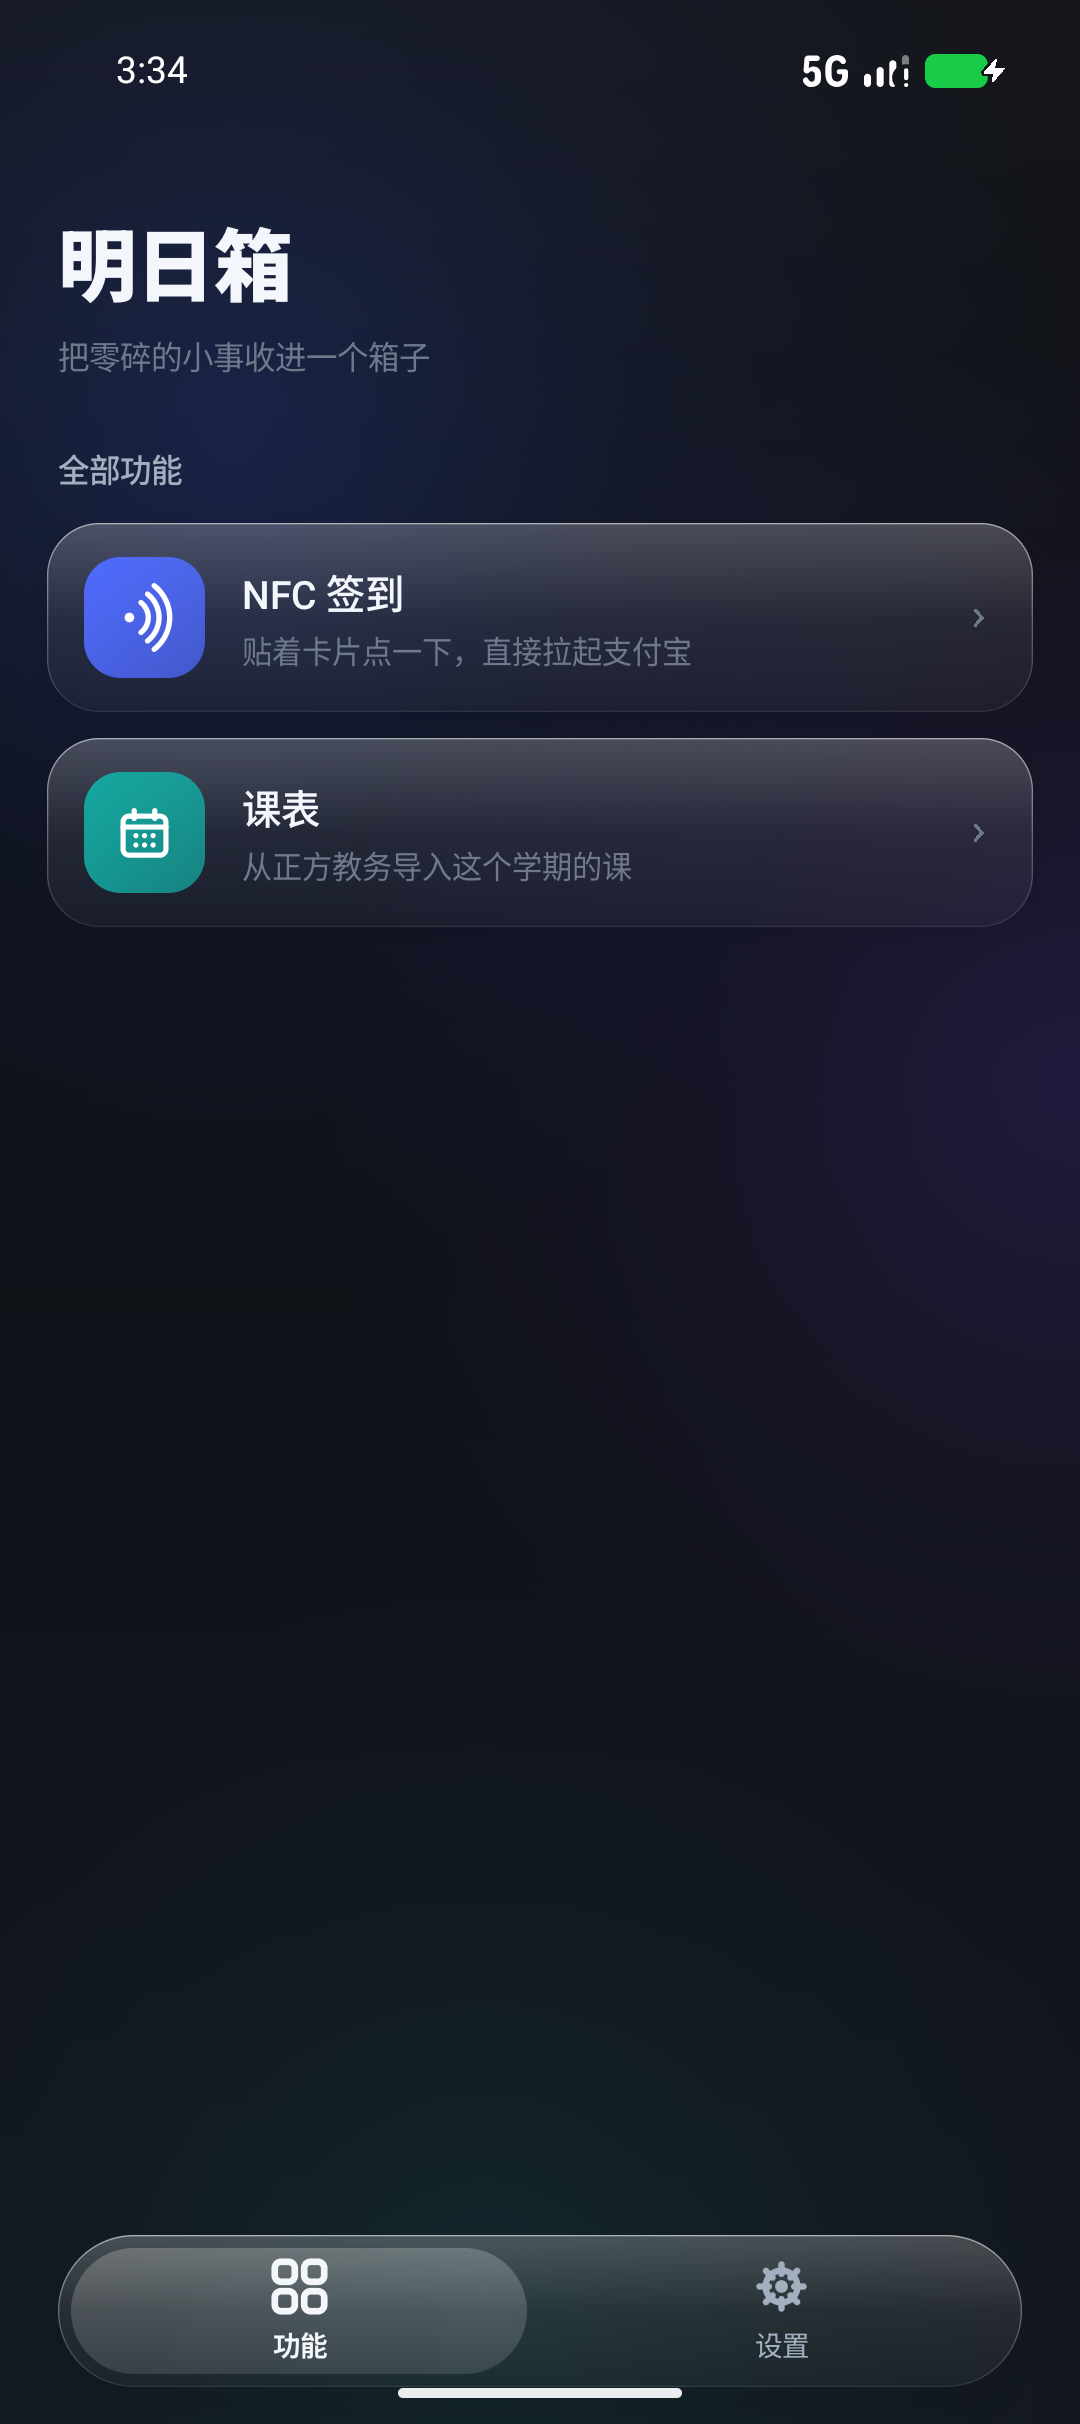
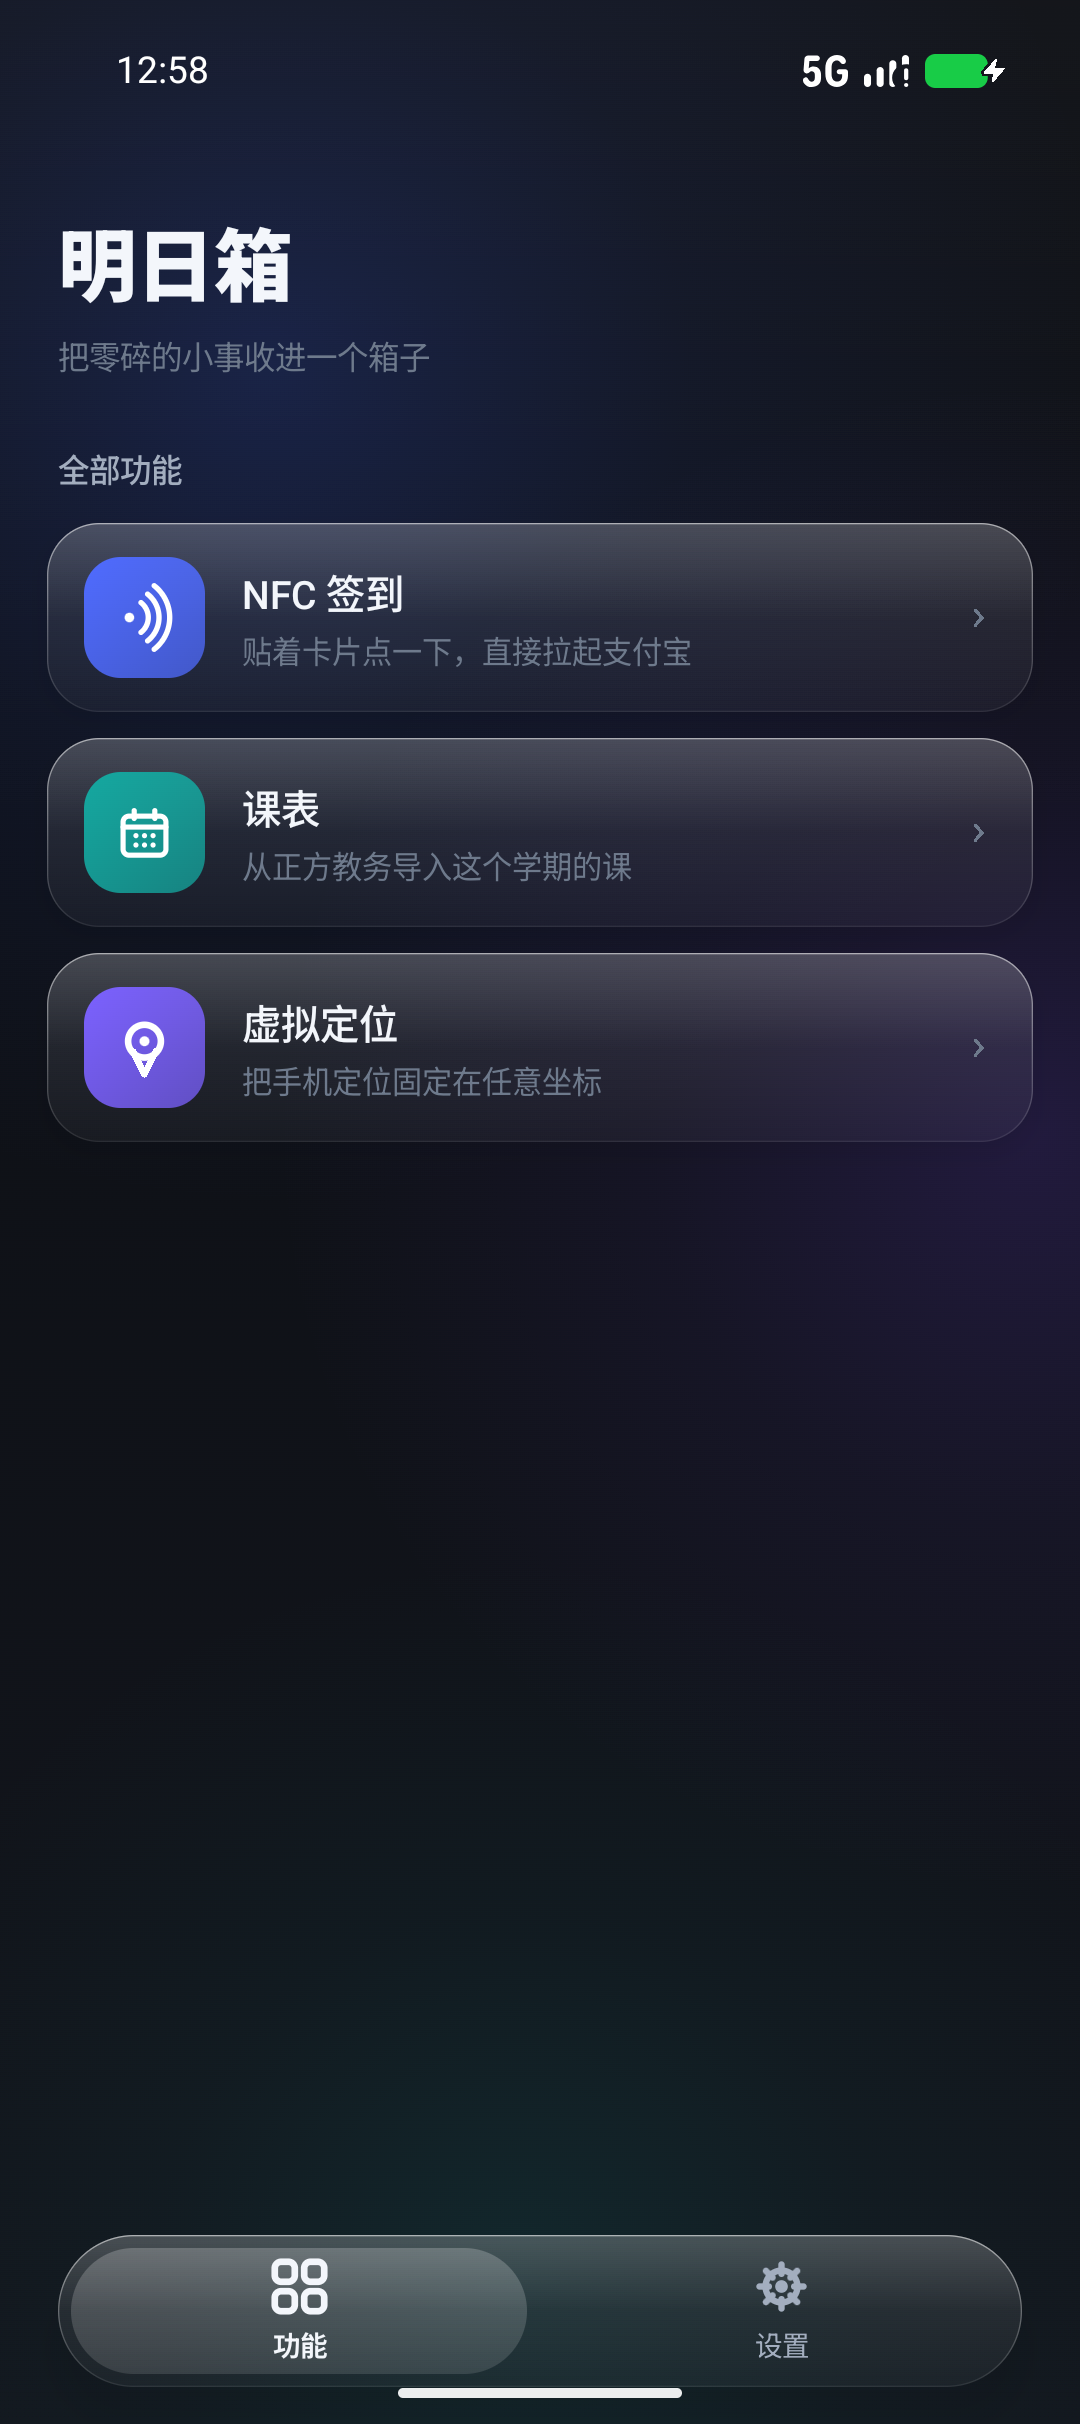
docs: 截图更新到包含虚拟定位的版本，补 README 的虚拟定位小节

Changed region(s): [[0.0306, 0.3713, 0.9778, 0.4641], [0.1222, 0.0, 0.1833, 0.0309]]

diff --git a/README.md b/README.md
@@ -53,6 +53,16 @@
 - 网格按周切换，单双周、跳周（`1-8,10-16周`）、连上多节都能正确显示
 - 课程颜色按课名 hash 分配，同一门课前后一致
 
+### 3. 虚拟定位
+
+走系统的 test provider（`addTestProvider` + `setTestProviderLocation`）：在开发者选项里把明日箱选成「模拟位置信息应用」之后，就能在地图上点一个点，把定位钉在那儿。
+
+每 100 毫秒推一次，provider 属性和 Location 字段都按真实 GPS 的规格配（高功耗 + 精确定位 + `satellites=7`），这样定位 SDK 才不会把它当成不可信的源丢掉。
+
+不用 root，不装 Xposed。代价是：打车、考勤这类会查 `isFromMockProvider()` 的 App 仍然可能识破。
+
+<img src="docs/screenshot-location.png" width="270" alt="虚拟定位">
+
 ## 界面结构
 
 - **功能页**：竖向列表，一行一个功能 —— 左侧彩色图标，右侧名称 + 一句说明，末尾箭头
